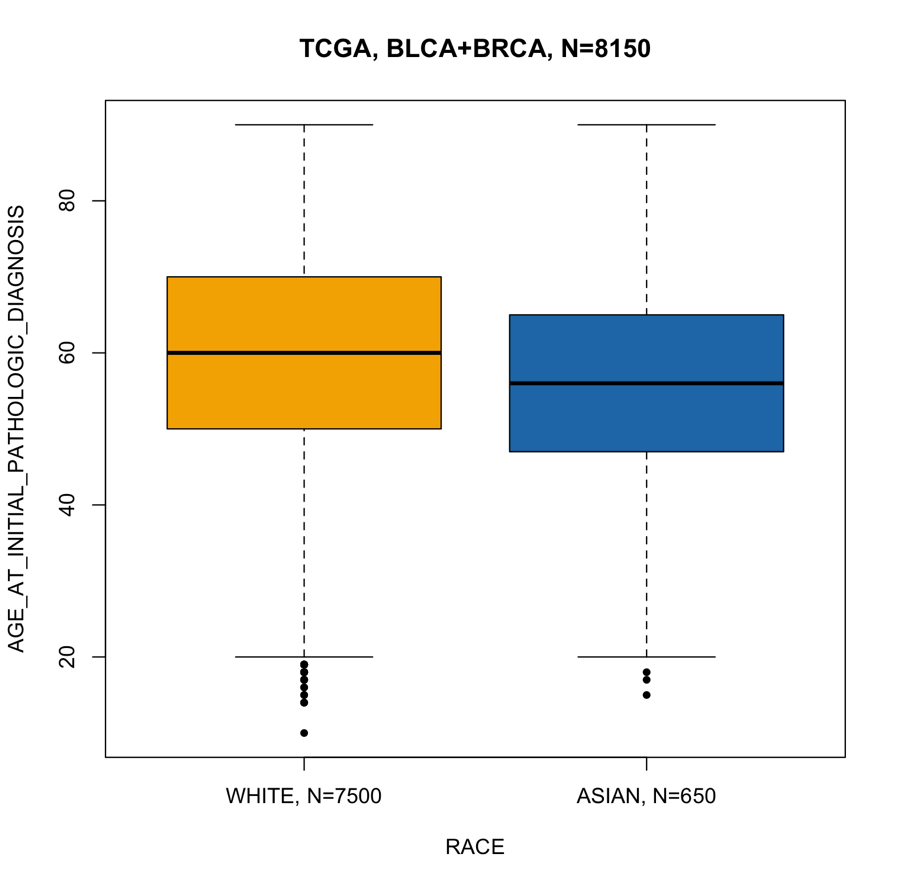
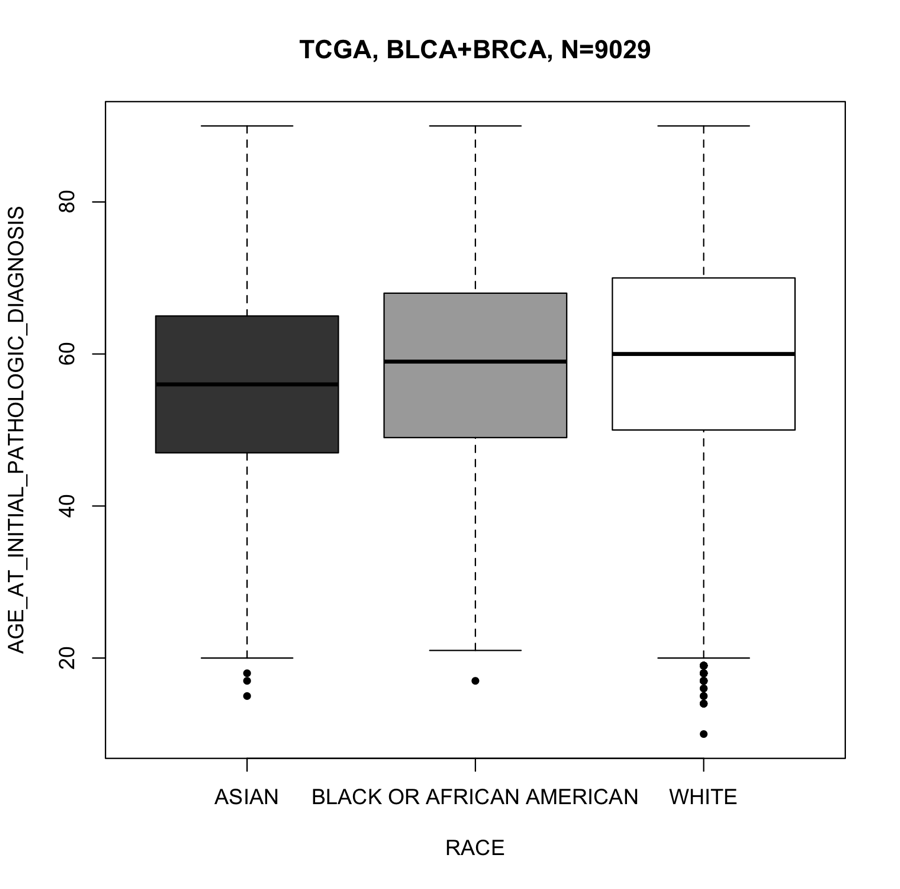
Fix: README/Figure updated

diff --git a/README.md b/README.md
@@ -1,4 +1,4 @@
-# PatiDem
+ PatiDem
  * Characterization of PATIent DEMographics
 
 ## How to create a package
@@ -54,7 +54,7 @@ tcga <- downloadData()
 visualizationBox(tcga, cancer_type = c("BLCA", "BRCA"),
     phenotype = "age_at_initial_pathologic_diagnosis",
     metadata_col = "race",
-    metadata_levels = c("WHITE", "ASIAN"))
+    metadata_levels = c("WHITE", "ASIAN", "BLACK OR AFRICAN AMERICAN"))
 ```
 ![A boxplot](./data/boxplot.png)
 
